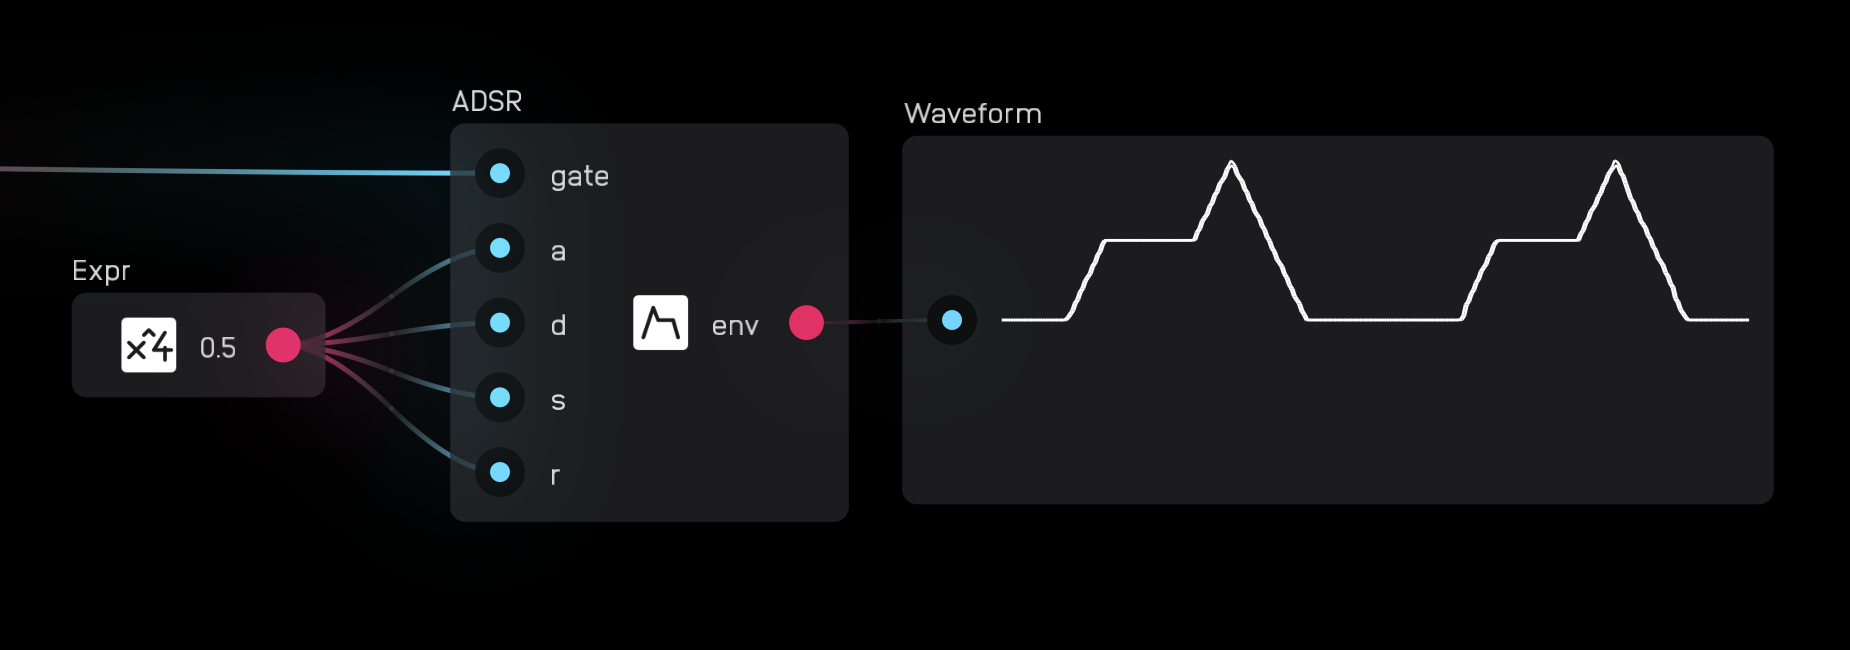
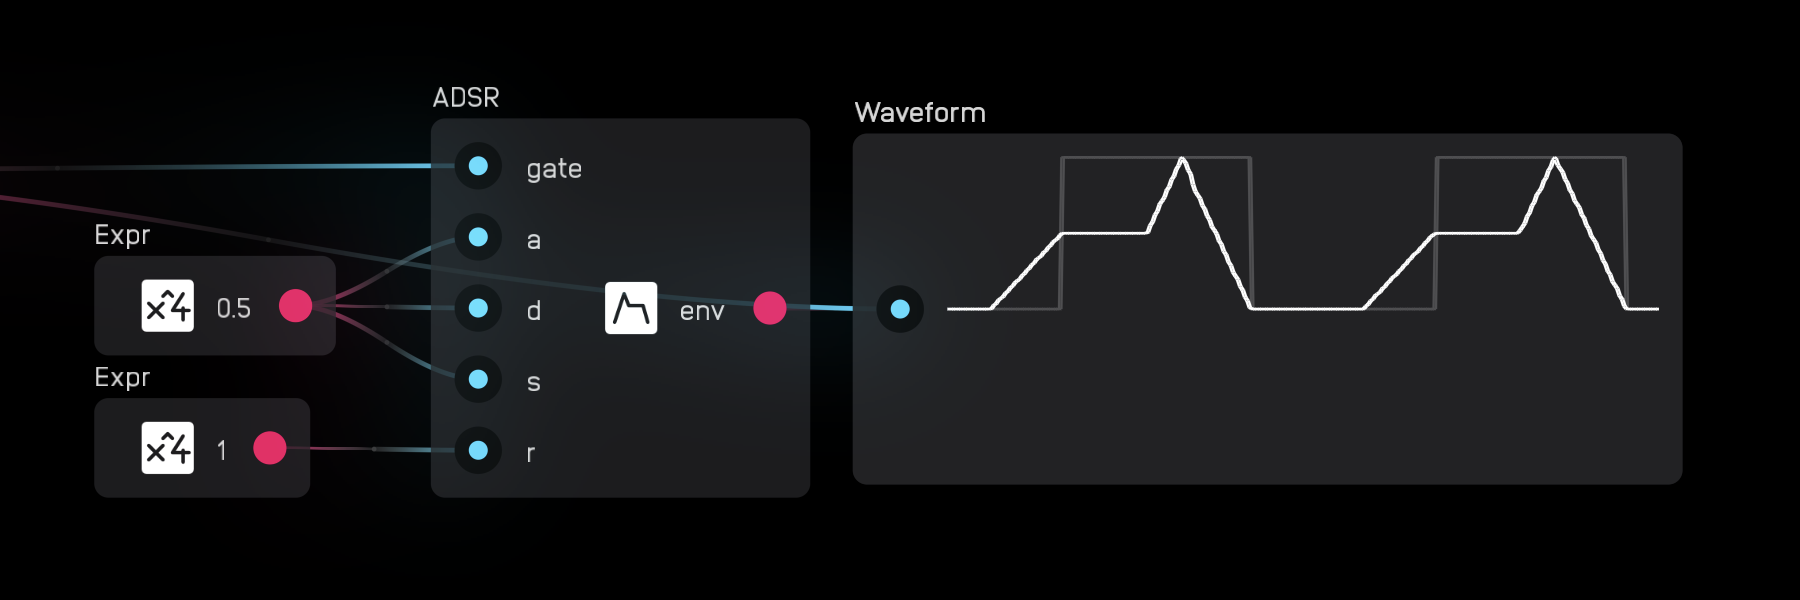
Updated nodes.md
-Added better picture for adsr node

Changed region(s): [[0.0, 0.12, 0.9644, 0.84], [0.0, 0.33, 0.0622, 0.36]]

diff --git a/docs/nodes.md b/docs/nodes.md
@@ -1636,11 +1636,11 @@ The `a` input is the attack time, `d` is decay time, `s` is sustain level, and `
 
 As long as the `gate` input is held `high`, the output of the `envelope` node increases from `0` to `gate height` over `a` seconds, decreases to the `s` level over `d` seconds, then once the gate goes `low`, decreases from the `s` level back to `0` over `r` seconds.
 
-Below you can see the `envelope` node going through its full cycle.
+Below you can see the `envelope` node going through its full cycle superimposed on the incoming `gate` signal.
 
 <img src="img/nodes_reference/synth/adsr/adsr_cycle.png"
 alt="adsr cycle"
-width="400"/>
+width="800"/>
 
 
 <br>
